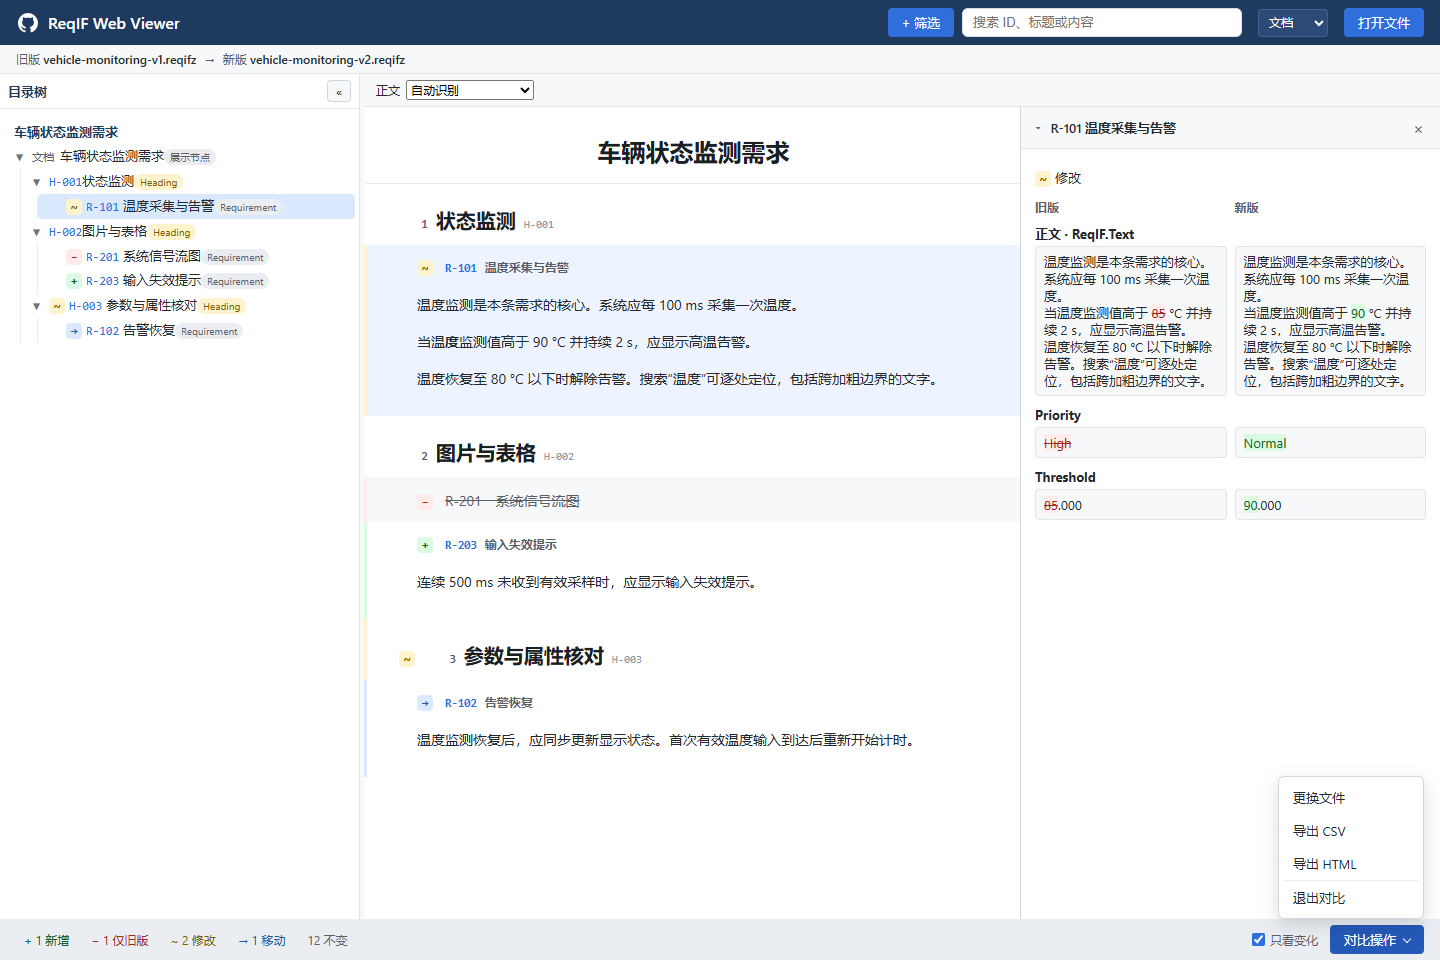
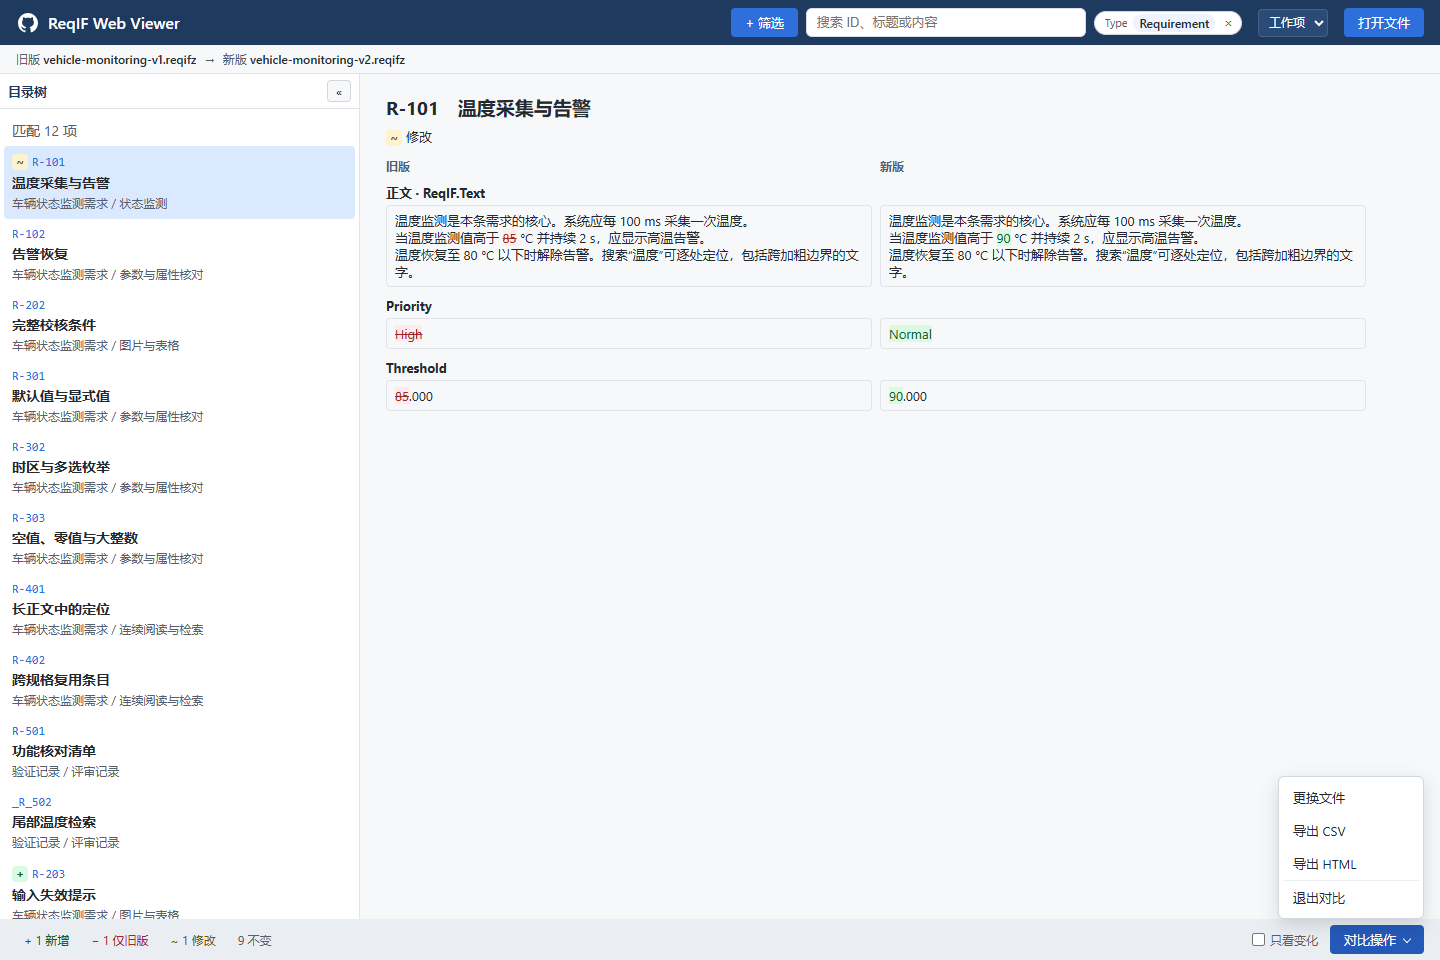
Update ReqIF comparison showcase

diff --git a/en/projects/reqif-web-viewer/index.html b/en/projects/reqif-web-viewer/index.html
@@ -152,7 +152,7 @@
           <article class="card reveal"><h3>Document and work item views</h3><p>Read specifications continuously in their original order, navigate from the tree, and inspect individual records. Select the field used as the document body.</p></article>
           <article class="card reveal"><h3>Search and body navigation</h3><p>Search IDs, titles, and content with all or any keywords, then combine attribute filters. Highlight body matches, see the count, and move to the previous or next occurrence.</p></article>
           <article class="card reveal"><h3>Field display settings</h3><p>Use the gear in the work item panel to choose and reorder fields. Attribute tables mark inherited defaults and preserve source time zones.</p></article>
-          <article class="card reveal"><h3>Version comparison</h3><p>Filter additions, older-only items, edits, and moves. Compare values side by side and export a CSV or an offline HTML report.</p></article>
+          <article class="card reveal"><h3>Version comparison</h3><p>Review added, older-only, modified, and unchanged items. Compare values side by side and export a CSV or an offline HTML report.</p></article>
           <article class="card reveal"><h3>Images, tables, and attachments</h3><p>Images open fitted to the window, with zoom controls, wheel zoom, and drag panning. Scroll wide tables within the document and download other attachments on click.</p></article>
           <article class="card reveal"><h3>Relations and statistics</h3><p>Follow incoming and outgoing relations. Counts use the source objects, count repeated references once, and handle added document titles as display nodes.</p></article>
         </div>
@@ -163,7 +163,7 @@
         <div class="feature-copy reveal">
           <span class="eyebrow">Version comparison</span>
           <h2>Review version changes</h2>
-          <p>Select an older and a newer file, then filter by status. Open an item to compare its text, attributes, and position. Export CSV or HTML from the bottom-right menu.</p>
+          <p>Choose an older and a newer file. Filter by type to see counts for the matching items. Open an item to compare values side by side, or export CSV or HTML from the bottom-right menu.</p>
           <figure class="visual-frame">
             <a href="../../../assets/images/reqif-compare-picker-real.png" target="_blank" rel="noopener noreferrer" aria-label="View full version selection screenshot">
               <img src="../../../assets/images/reqif-compare-picker-real.png" width="720" height="316" loading="lazy" decoding="async" alt="The file picker has an older ReqIFz file on the left, a newer one on the right, and a centered start button">
@@ -173,7 +173,7 @@
         </div>
         <figure class="visual-frame reveal">
           <a href="../../../assets/images/reqif-comparison-real.png" target="_blank" rel="noopener noreferrer" aria-label="View full comparison screenshot">
-            <img src="../../../assets/images/reqif-comparison-real.png" width="1440" height="960" loading="lazy" decoding="async" alt="The comparison highlights a change from 85 °C to 90 °C in the body and attributes, with status filters and export options below">
+            <img src="../../../assets/images/reqif-comparison-real.png" width="1440" height="960" loading="lazy" decoding="async" alt="The Requirement filter updates the four status counts, and the comparison highlights a change from 85 °C to 90 °C">
           </a>
           <figcaption class="visual-caption">The alarm threshold changes from 85 °C to 90 °C.</figcaption>
         </figure>

diff --git a/projects/reqif-web-viewer/index.html b/projects/reqif-web-viewer/index.html
@@ -152,7 +152,7 @@
           <article class="card reveal"><h3>文档与工作项</h3><p>按文件原有顺序连续阅读各规格，目录与正文联动。切换工作项视图核对单条记录，正文字段可手动选择。</p></article>
           <article class="card reveal"><h3>搜索与正文定位</h3><p>搜索 ID、标题和内容，组合属性筛选。支持全部或任一关键词匹配，正文高亮、命中次数与上一处 / 下一处跳转。</p></article>
           <article class="card reveal"><h3>字段显示设置</h3><p>通过工作项面板的齿轮选择字段并排序。属性表标注继承的默认值，日期保留源时区。</p></article>
-          <article class="card reveal"><h3>版本对比</h3><p>筛选新增、仅旧版、修改和移动，逐项核对旧值与新值。支持导出 CSV 和离线 HTML 报告。</p></article>
+          <article class="card reveal"><h3>版本对比</h3><p>查看新增、仅旧版、修改和不变的工作项，逐项核对旧值与新值。支持导出 CSV 和离线 HTML 报告。</p></article>
           <article class="card reveal"><h3>图表与附件</h3><p>图片打开时适应窗口，可用底部图标或滚轮缩放、拖动平移。宽表格在正文中横向滚动，其他附件点击后下载。</p></article>
           <article class="card reveal"><h3>关联与统计</h3><p>点击出入向关联继续查阅。统计按真实对象计算，重复引用只计一次，补充标题作为展示节点处理。</p></article>
         </div>
@@ -163,7 +163,7 @@
         <div class="feature-copy reveal">
           <span class="eyebrow">Version comparison</span>
           <h2>查看版本差异</h2>
-          <p>选择旧版和新版，按状态筛选差异。打开工作项左右对照，在右下角导出 CSV 或 HTML。</p>
+          <p>选择旧版和新版，按类型筛选工作项，底部统计随之更新。打开工作项左右对照，在右下角导出 CSV 或 HTML。</p>
           <figure class="visual-frame">
             <a href="../../assets/images/reqif-compare-picker-real.png" target="_blank" rel="noopener noreferrer" aria-label="查看版本选择原图">
               <img src="../../assets/images/reqif-compare-picker-real.png" width="720" height="316" loading="lazy" decoding="async" alt="左侧选择旧版 ReqIFz，右侧选择新版，下方居中显示开始对比">
@@ -173,7 +173,7 @@
         </div>
         <figure class="visual-frame reveal">
           <a href="../../assets/images/reqif-comparison-real.png" target="_blank" rel="noopener noreferrer" aria-label="查看差异视图原图">
-            <img src="../../assets/images/reqif-comparison-real.png" width="1440" height="960" loading="lazy" decoding="async" alt="对比视图高亮 85 °C 到 90 °C 的正文和属性变化，底部显示差异筛选和导出菜单">
+            <img src="../../assets/images/reqif-comparison-real.png" width="1440" height="960" loading="lazy" decoding="async" alt="筛选 Requirement 后，底部显示对应的四类统计，正文高亮 85 °C 到 90 °C 的改动">
           </a>
           <figcaption class="visual-caption">差异视图 · 告警阈值从 85 °C 调整为 90 °C。</figcaption>
         </figure>
